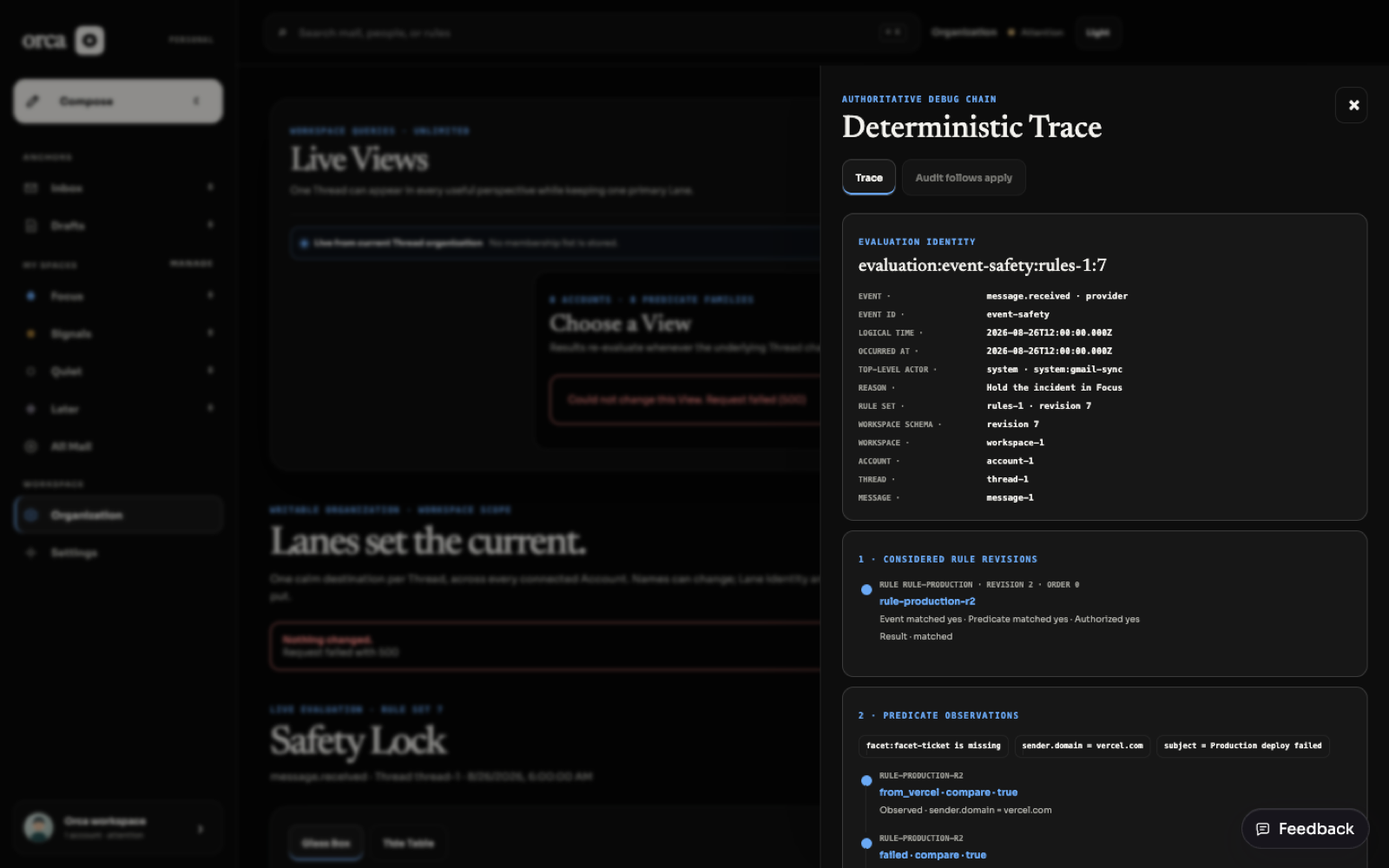
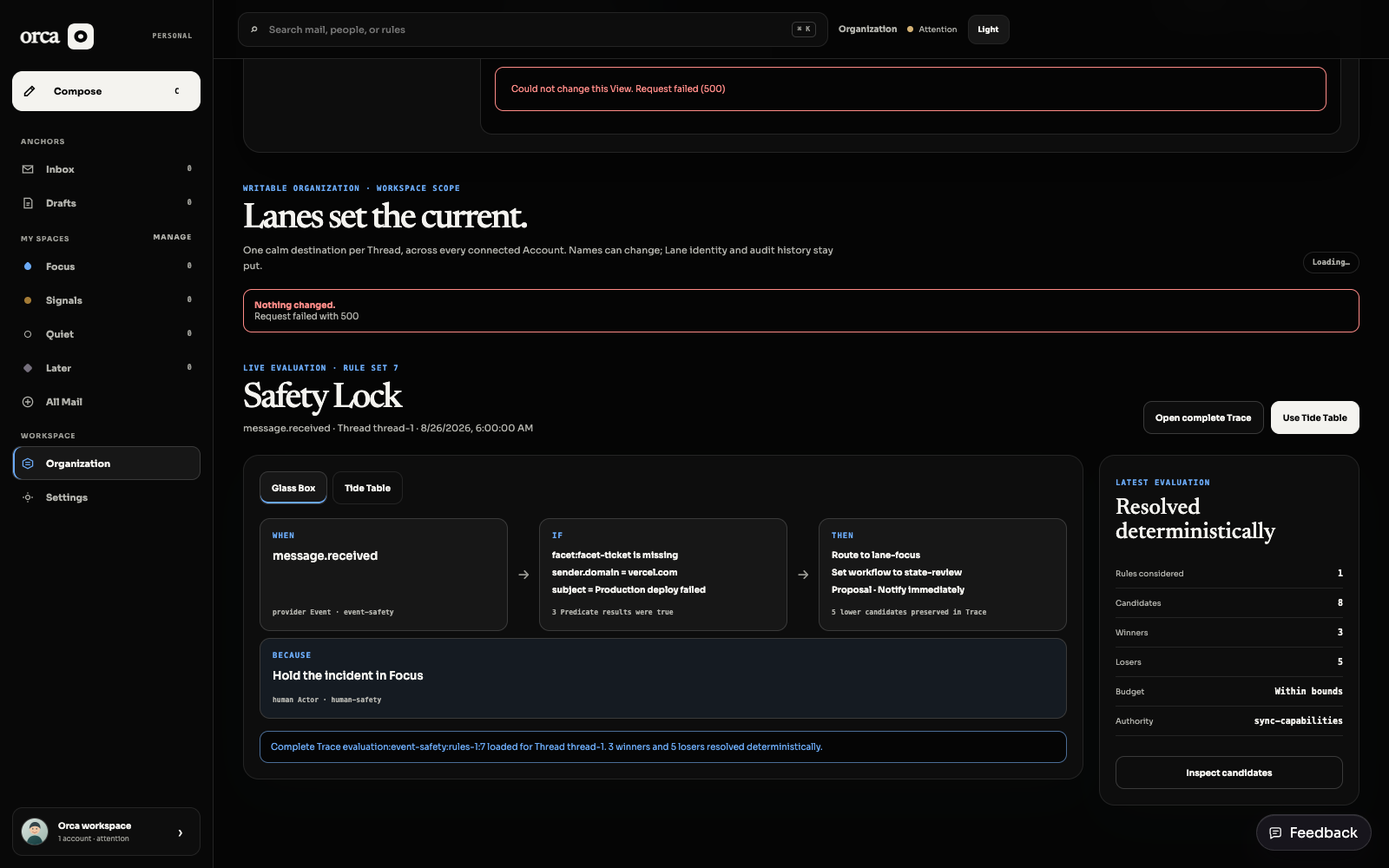
fix(BRE-315): keep Trace status truthful

diff --git a/apps/web/src/desktop-switch.tsx b/apps/web/src/desktop-switch.tsx
@@ -406,29 +406,41 @@ export function OrganizationStudio({ interactivePreview = false }: { interactive
   const [traceState, setTraceState] = useState<"loading" | "ready" | "empty" | "error">(interactivePreview ? "empty" : "loading");
   const [status, setStatus] = useState(interactivePreview
     ? "UI preview · local session only. No rule, provider mail, or audit record is changed or persisted."
-    : "Immutable source compilation is available in Tide Table. Simulation, activation, revert, Trace, and Audit are not part of this compile-only revision.");
+    : "Loading the latest complete Trace…");
   const timerRef = useRef<ReturnType<typeof setTimeout> | null>(null);
+  const traceRequestGenerationRef = useRef(0);
   const previewTideRequest = useMemo(() => createTidePreviewRequest(), []);
   const invalidateOrganization = useCallback(() => {
     if (!interactivePreview) setOrganizationInvalidation((current) => current + 1);
   }, [interactivePreview]);
   useEffect(() => () => { if (timerRef.current) clearTimeout(timerRef.current); }, []);
   useEffect(() => {
+    const requestGeneration = ++traceRequestGenerationRef.current;
     if (interactivePreview) return;
     const controller = new AbortController();
+    setLiveTrace(null);
+    setTraceState("loading");
+    setStatus("Loading the latest complete Trace…");
     void fetch("/v1/organization/evaluations/latest", { credentials: "include", signal: controller.signal })
       .then(async (response) => {
         if (!response.ok) throw new Error(`Trace request failed (${response.status})`);
         const body = await response.json() as { trace?: unknown };
         const parsed = orcaEvaluationTraceSchema.nullable().safeParse(body.trace ?? null);
         if (!parsed.success) throw new Error("Latest Trace did not match the Orca evaluation contract");
+        if (controller.signal.aborted || requestGeneration !== traceRequestGenerationRef.current) return;
         setLiveTrace(parsed.data);
         setTraceState(parsed.data ? "ready" : "empty");
+        if (parsed.data) {
+          setStatus(`Complete Trace ${parsed.data.id} loaded for Thread ${parsed.data.event.threadId}. ${parsed.data.winners.length} winners and ${parsed.data.losers.length} losers resolved deterministically.`);
+        } else {
+          setStatus("No complete Trace is available. No Rule evaluation has been recorded yet.");
+        }
       })
       .catch((error: unknown) => {
-        if (!controller.signal.aborted) {
+        if (!controller.signal.aborted && requestGeneration === traceRequestGenerationRef.current) {
           setTraceState("error");
-          setStatus(error instanceof Error ? error.message : "Latest Trace is unavailable");
+          const detail = error instanceof Error ? error.message : "Latest Trace is unavailable";
+          setStatus(`Complete Trace unavailable. ${detail}. No causal claim is shown without evidence.`);
         }
       });
     return () => controller.abort();
@@ -452,7 +464,7 @@ export function OrganizationStudio({ interactivePreview = false }: { interactive
     <header className="organization-heading"><div><span>{interactivePreview ? `Organization UI preview · session ${activeRevision}` : displayTrace ? `Live evaluation · Rule Set ${displayTrace.ruleSet.revision}` : "Organization · deterministic evaluation"}</span><h1 id="organization-title">{displayTrace ? traceTitle(displayTrace) : "Production failures"}</h1><p>{interactivePreview ? "Local interaction preview for Focus · nothing is persisted" : displayTrace ? `${displayTrace.event.kind} · Thread ${displayTrace.event.threadId} · ${new Date(displayTrace.logicalTime).toLocaleString()}` : traceState === "loading" ? "Loading the latest complete Trace…" : traceState === "error" ? "The latest Trace could not be read" : "No Rule evaluation has been recorded yet"}</p></div><div><button className="organization-trace-trigger" disabled={!interactivePreview && !displayTrace} onClick={() => setTraceOpen(true)} type="button">{interactivePreview ? "Preview changes" : "Open complete Trace"}</button><button className="organization-primary" disabled={!interactivePreview} onClick={updateDraft} type="button">{interactivePreview ? "New rule" : "Use Tide Table"}</button></div></header>
     <div className="organization-grid"><section className="organization-editor"><nav aria-label="Rule authoring mode"><button aria-pressed={mode === "glass"} onClick={() => setMode("glass")} type="button">Glass Box</button><button aria-pressed={mode === "tide"} onClick={() => setMode("tide")} type="button">Tide Table</button></nav>
       {mode === "glass" ? displayTrace ? <div className="glass-box glass-live-trace"><article><span>When</span><strong>{displayTrace.event.kind}</strong><small>{displayTrace.event.cause} Event · {displayTrace.event.id}</small></article><i>→</i><article><span>If</span><ul>{displayTrace.observedValues.map((value) => <li key={value.field}>{observedValueLabel(value)}</li>)}</ul><small>{displayTrace.predicateResults.filter((result) => result.result).length} Predicate results were true</small></article><i>→</i><article><span>Then</span><ul>{displayTrace.winners.map((winner) => <li key={winner.candidateId}>{evaluationActionLabel(winner.action)}</li>)}</ul><small>{displayTrace.losers.length} lower candidate{displayTrace.losers.length === 1 ? "" : "s"} preserved in Trace</small></article><article className="glass-because"><span>Because</span><strong>{tracePrimaryWinner(displayTrace)?.reason ?? displayTrace.reason}</strong><small>{(tracePrimaryWinner(displayTrace)?.actor ?? displayTrace.actor).type} Actor · {(tracePrimaryWinner(displayTrace)?.actor ?? displayTrace.actor).id}</small></article></div> : <div className={`glass-trace-state glass-trace-state-${traceState}`} role="status"><span>{traceState === "loading" ? "Reading Trace" : traceState === "error" ? "Trace unavailable" : "No evaluation yet"}</span><strong>{traceState === "loading" ? "Following the latest message.received path…" : traceState === "error" ? "Orca kept the interface honest: no causal claim is shown without its Trace." : "A complete When → If → Then → Because explanation will appear after the first evaluation."}</strong></div> : <TideTableEditor onCompiled={invalidateOrganization} previewMode={interactivePreview} request={interactivePreview ? previewTideRequest : undefined} />}
-      <p aria-live="polite" className={`organization-status organization-status-${simulation}`}>{status}</p>
+      <p aria-live="polite" className={`organization-status organization-status-${interactivePreview ? simulation : traceState}`}>{status}</p>
     </section><aside className="simulation-card" aria-busy={simulation === "running" || undefined}><span>{interactivePreview ? "Local sample preview" : displayTrace ? "Latest evaluation" : "Trace status"}</span><h2>{interactivePreview ? simulation === "running" ? "Generating sample…" : simulation === "stale" ? "Sample is outdated" : "Preview impact" : displayTrace ? "Resolved deterministically" : traceState === "loading" ? "Reading evidence…" : "No complete Trace"}</h2><dl>{displayTrace ? <><div><dt>Rules considered</dt><dd>{displayTrace.consideredRevisions.length}</dd></div><div><dt>Candidates</dt><dd>{displayTrace.candidates.length}</dd></div><div><dt>Winners</dt><dd>{displayTrace.winners.length}</dd></div><div><dt>Losers</dt><dd>{displayTrace.losers.length}</dd></div><div><dt>Budget</dt><dd>{displayTrace.budget.exhausted ? "Exhausted" : "Within bounds"}</dd></div><div><dt>Authority</dt><dd>{displayTrace.capabilities.id}</dd></div></> : <><div><dt>Sample messages</dt><dd>{simulation === "ready" ? "2,418" : "—"}</dd></div><div><dt>Would move to Focus</dt><dd>{simulation === "ready" ? "14" : "—"}</dd></div><div><dt>Would notify</dt><dd>{simulation === "ready" ? "3" : "—"}</dd></div><div><dt>Would hide</dt><dd>{simulation === "ready" ? "0" : "—"}</dd></div><div><dt>Sample risk</dt><dd>{simulation === "ready" ? "Low" : "Not calculated"}</dd></div><div><dt>Authority</dt><dd>Not checked</dd></div></>}</dl>{displayTrace ? <button className="organization-trace-trigger" onClick={() => setTraceOpen(true)} type="button">Inspect candidates</button> : <><button disabled={!interactivePreview || simulation === "running"} onClick={runSimulation} type="button">{simulation === "running" ? "Generating…" : simulation === "stale" ? "Preview again" : "Preview sample"}</button><button className="organization-primary" disabled={!interactivePreview || simulation !== "ready"} onClick={activate} type="button">Change preview state</button></>}</aside></div>
     {traceOpen && displayTrace ? <CompleteTraceDrawer onClose={() => setTraceOpen(false)} trace={displayTrace} /> : null}
     {traceOpen && interactivePreview ? <DesktopDrawer ariaLabel="Local preview changes" className="trace-drawer" onClose={() => setTraceOpen(false)}><header><div><span>{traceTab === "trace" ? "UI explanation preview" : "Local session changes"}</span><h2>{traceTab === "trace" ? "Preview" : "Session"}</h2></div><button aria-label="Close preview changes" onClick={() => setTraceOpen(false)} type="button">×</button></header><div className="trace-tabs"><button aria-pressed={traceTab === "trace"} onClick={() => setTraceTab("trace")} type="button">Explanation</button><button aria-pressed={traceTab === "audit"} onClick={() => setTraceTab("audit")} type="button">Session changes</button></div>{traceTab === "trace" ? <ol><li><span>Sample only</span><strong>No server trace was requested.</strong></li><li><span>Authority</span><strong>Not checked.</strong></li><li className="trace-winner"><span>Preview rule</span><strong>Production failures · local state {activeRevision}.</strong></li><li><span>Persistence</span><strong>Reloading clears this preview.</strong></li></ol> : <ol className="audit-log"><li><span>Local state {activeRevision}</span><strong>Changed in this browser session</strong></li><li><span>Sample preview</span><strong>Illustrative counts · no production query</strong></li><li><span>Audit record</span><strong>None created</strong></li><li><span>Provider mail</span><strong>Not changed</strong></li></ol>}<section><span>Preview restore</span><h3>{revertReview ? `Restore local state ${Math.max(1, activeRevision - 1)}?` : "Changes only this local preview"}</h3><p>{revertReview ? "This updates local component state only. It does not create, rewrite, or preserve any server revision." : "The Organization API does not currently expose revert. This control exists only to review the intended interaction."}</p>{revertReview ? <div className="trace-revert-actions"><button onClick={() => setRevertReview(false)} type="button">Cancel</button><button className="trace-revert-apply" onClick={revert} type="button">Restore local preview</button></div> : <button onClick={() => setRevertReview(true)} type="button">Review local restore</button>}</section></DesktopDrawer> : null}

diff --git a/apps/web/public/docs/bre-315-deterministic-evaluator.html b/apps/web/public/docs/bre-315-deterministic-evaluator.html
@@ -18,9 +18,9 @@
     <section id="slice"><div class="section-head"><span class="num">01</span><h2>The vertical slice</h2><p>The evaluator is a deep module: one explicit interface, with ambient I/O and clocks excluded.</p></div><div class="grid"><article class="card"><b>Four Events</b><strong>One canonical vocabulary</strong><p><code>message.received</code>, <code>thread.updated</code>, <code>schedule.reached</code>, and <code>user.corrected</code> compile and evaluate consistently. Evaluator-origin Events are loop-blocked.</p></article><article class="card"><b>Resolution</b><strong>Compatible combines; exclusive selects</strong><p>Safety Lock, Manual Override, ordered Rules, Lane Policy, and Workspace fallback share one deterministic precedence law.</p></article><article class="card"><b>Output</b><strong>Typed Actions + complete Trace</strong><p>Every considered revision, observed value, Predicate result, candidate, winner, loser, authority fact, reason, and budget count survives.</p></article></div></section>
     <section id="precedence"><div class="section-head"><span class="num">02</span><h2>One global law</h2><p>Rule order breaks Rule ties; stable IDs break remaining ties. No adapter gets its own policy logic.</p></div><div class="law"><span>1 · Safety Lock</span><i>→</i><span>2 · Manual Override</span><i>→</i><span>3 · Ordered Rule</span><i>→</i><span>4 · Lane Policy</span><i>→</i><span>5 · Workspace fallback</span></div></section>
     <section id="walkthrough"><div class="section-head"><span class="num">03</span><h2>Production failure, explained</h2><p>This is the evidence path exercised by the live SQLite test and rendered by the Organization Glass Box.</p></div><div class="trace"><div class="glass"><article><span>When</span><strong>message.received</strong><p class="kicker">provider Event</p></article><i>→</i><article><span>If</span><ul><li>sender.domain = vercel.com</li><li>subject = Production deploy failed</li></ul></article><i>→</i><article><span>Then</span><ul><li>Route to lane-focus</li><li>Set workflow to state-review</li><li>Set facet-urgency = urgent</li><li>Add collection-launch</li><li>Link context-orca</li><li>Notify immediately</li></ul></article><article class="because"><span>Because</span><strong>A failed deploy blocks work.</strong></article></div><aside class="timeline"><span class="kicker">Complete Trace</span><h3>Why Focus won</h3><ol><li><span>Revision considered</span><strong>rule-production-r2 · Event and Predicate matched</strong></li><li class="win"><span>Winner · Rule Revision</span><strong>Route to lane-focus</strong></li><li><span>Loser · Workspace fallback</span><strong>lane-fallback preserved with the reason higher_precedence_candidate</strong></li><li><span>Authority</span><strong>system:gmail-sync · organization_thread + organization_attention</strong></li><li><span>Budget</span><strong>3 / 2,000 Predicate steps · not exhausted</strong></li></ol></aside></div></section>
-    <section id="evidence"><div class="section-head"><span class="num">03B</span><h2>Fresh browser evidence</h2><p>Captured from the real Vite UI with <code>agent-browser</code> using the checked-in fixture that the Trace UI test proves identical to real evaluator output. In both themes, Safety Lock is the Lane winner and the top-level reason is exactly <code>Hold the incident in Focus</code>.</p></div><div class="shots"><figure><img alt="Real-evaluator Safety Lock Trace with authoritative title, reason, Actor, and complete candidate chain in Light theme" src="/docs/assets/bre-315-trace-light.png"><figcaption>Light · Safety Lock title and reason; exact human Actor; Rule, Manual Override, and fallback loser links.</figcaption></figure><figure><img alt="Real-evaluator Safety Lock Trace with proposals, capability denial, and winner linkage in Orca Black" src="/docs/assets/bre-315-trace-orca-black.png"><figcaption>Orca Black · the same authoritative winner evidence with proposal labels, capability denial, and full Snapshot.</figcaption></figure></div></section>
+    <section id="evidence"><div class="section-head"><span class="num">03B</span><h2>Fresh browser evidence</h2><p>Captured from the real Vite UI with <code>agent-browser</code> using the checked-in fixture that the Trace UI test proves identical to real evaluator output. In both themes, the visible and <code>aria-live</code> status names the exact evaluation and Thread, reports the winner/loser totals, and agrees with the rendered Glass Box.</p></div><div class="shots"><figure><img alt="Truthful complete Trace status with exact evaluation, Thread, winner, and loser wording in Light theme" src="/docs/assets/bre-315-trace-light.png"><figcaption>Light · exact ready status, focused Trace control, selected Glass Box, Safety Lock reason, and deterministic totals.</figcaption></figure><figure><img alt="The same truthful complete Trace status and Glass Box evidence in Orca Black" src="/docs/assets/bre-315-trace-orca-black.png"><figcaption>Orca Black · readable ready status, focus and selected states, exact Actor, and matching winner/loser totals.</figcaption></figure></div></section>
     <section id="storage"><div class="section-head"><span class="num">04</span><h2>Storage and failure invariants</h2><p>Mail normalization, organization projections, and Trace persistence share the provider transaction.</p></div><div class="checks"><table><thead><tr><th>Invariant</th><th>Evidence</th><th>Status</th></tr></thead><tbody><tr><td>Safety Lock survives replay</td><td>Matching and nonmatching same-Thread updates leave the locked Lane, source, Actor, reason, revision, and reload result exact; lower candidates remain Trace-only losers</td><td class="pass">Verified</td></tr><tr><td>Manual Override and unlock</td><td>Safety Lock wins and links the losing Manual Override; after unlock the ordinary lower-placement invariant resumes</td><td class="pass">Verified</td></tr><tr><td>Four Event families</td><td>Shared schema, compiler, evaluator, live provider routing, Trace DB CHECK, and fixtures use the same stable wire values</td><td class="pass">Verified</td></tr><tr><td>Proposal-only boundary</td><td>Notify/suppress/schedule, retention, and provider deletion remain typed Trace/actions JSON proposals; no reminder, notification, retention, or deletion side effect is created</td><td class="pass">Verified</td></tr><tr><td>Immutable evidence</td><td>SQLite UPDATE and DELETE rejection triggers plus Workspace/Event idempotency</td><td class="pass">Verified</td></tr><tr><td>No partial apply</td><td>Forced Trace INSERT failure rolls back normalized mail and every Organization projection</td><td class="pass">Verified</td></tr><tr><td>No recursive authored loops</td><td>Evaluator-origin Events are considered but blocked before Rule execution</td><td class="pass">Verified</td></tr></tbody></table></div></section>
-    <section id="manual"><div class="section-head"><span class="num">05</span><h2>Manual reviewer path</h2><p>Use the real Organization screen. The checks below cover content, interaction, theme safety, and immutable storage.</p></div><div class="manual"><article><h3>Complete Trace</h3><ol><li>Open <code>/?destination=organization</code> with a signed-in Workspace that has a recorded evaluation.</li><li>Select <strong>Open complete Trace</strong>.</li><li>Confirm Evaluation/Event/Rule Set/Workspace snapshot IDs, Actor, reason, and logical time are visible.</li><li>Confirm every considered revision includes order, Event/Predicate/authorization results; every Predicate includes observed values including missing data.</li><li>Confirm each candidate identifies winner/loser, typed action, source/revision/order, exact Actor, authorization and missing Capabilities, reason, and winner link.</li><li>Confirm the full Capability Snapshot identity, revision, scope, operations, resource families, and action families is present.</li></ol></article><article><h3>Theme and controls</h3><ol><li>Check Light and Orca Black.</li><li>Inspect default, hover, keyboard focus, selected Glass Box tab, disabled Audit, and open Trace states.</li><li>Every state must retain a readable label, visible border, and ink foreground.</li><li>Confirm attention, retention, and provider deletion entries say <strong>Proposal</strong>.</li></ol></article><article><h3>Focused automation</h3><pre>bun test \
+    <section id="manual"><div class="section-head"><span class="num">05</span><h2>Manual reviewer path</h2><p>Use the real Organization screen. The checks below cover content, interaction, theme safety, and immutable storage.</p></div><div class="manual"><article><h3>Complete Trace</h3><ol><li>Open <code>/?destination=organization</code> with a signed-in Workspace that has a recorded evaluation.</li><li>Confirm the ready status names the exact Trace and Thread and matches the visible winner/loser totals.</li><li>Select <strong>Open complete Trace</strong>.</li><li>Confirm Evaluation/Event/Rule Set/Workspace snapshot IDs, Actor, reason, and logical time are visible.</li><li>Confirm every considered revision includes order, Event/Predicate/authorization results; every Predicate includes observed values including missing data.</li><li>Confirm each candidate identifies winner/loser, typed action, source/revision/order, exact Actor, authorization and missing Capabilities, reason, and winner link.</li><li>Confirm the full Capability Snapshot identity, revision, scope, operations, resource families, and action families is present.</li></ol></article><article><h3>Theme and controls</h3><ol><li>Check Light and Orca Black.</li><li>Inspect default, hover, keyboard focus, selected Glass Box tab, disabled Audit, and open Trace states.</li><li>Verify ready, empty, and error status wording is readable, truthful, and does not retain a prior Trace or compile-only claim.</li><li>Every state must retain a readable label, visible border, and ink foreground.</li><li>Confirm attention, retention, and provider deletion entries say <strong>Proposal</strong>.</li></ol></article><article><h3>Focused automation</h3><pre>bun test \
   apps/api/src/organization/rules/evaluator.test.ts \
   apps/api/src/organization/rules/evaluation-integration.test.ts \
   apps/api/src/organization/rules/evaluation-migration.test.ts \

diff --git a/apps/web/src/organization-trace.test.tsx b/apps/web/src/organization-trace.test.tsx
@@ -71,6 +71,9 @@ describe("Organization Glass Box Trace", () => {
     expect(browser.document.body.textContent).toContain("sender.domain = vercel.com");
     expect(browser.document.body.textContent).toContain("Route to lane-focus");
     expect(browser.document.body.textContent).toContain("A failed deploy blocks work");
+    expect(browser.document.querySelector(".organization-status")?.textContent).toBe(
+      "Complete Trace evaluation:event-1:rules-1:7 loaded for Thread thread-1. 3 winners and 3 losers resolved deterministically.",
+    );
     const open = [...browser.document.querySelectorAll("button")].find((button) => button.textContent === "Open complete Trace");
     expect(open?.disabled).toBe(false);
     act(() => open?.dispatchEvent(new browser.MouseEvent("click", { bubbles: true })));
@@ -124,6 +127,92 @@ describe("Organization Glass Box Trace", () => {
     expect(content).toContain("Winner link · safety-lock:lane");
     expect(content).toContain("rule:rule-production:rule-production-r2:0 · Loser");
     expect(content).toContain("Reason · Hold the incident in Focus");
+  });
+
+  test("announces the exact empty Trace state without retaining compile-only wording", async () => {
+    setGlobal("fetch", async (input: RequestInfo | URL) => {
+      if (String(input) === "/v1/organization/evaluations/latest") return Response.json({ trace: null });
+      return Response.json({ error: { code: "not_available" } }, { status: 503 });
+    });
+
+    await act(async () => {
+      root!.render(<OrganizationStudio />);
+      await new Promise((resolve) => setTimeout(resolve, 0));
+    });
+
+    expect(browser.document.querySelector(".glass-trace-state-empty")?.textContent).toBe(
+      "No evaluation yetA complete When → If → Then → Because explanation will appear after the first evaluation.",
+    );
+    expect(browser.document.querySelector(".organization-status")?.textContent).toBe(
+      "No complete Trace is available. No Rule evaluation has been recorded yet.",
+    );
+  });
+
+  test("announces the exact Trace error without retaining empty or success wording", async () => {
+    setGlobal("fetch", async (input: RequestInfo | URL) => {
+      if (String(input) === "/v1/organization/evaluations/latest") {
+        return Response.json({ error: { code: "upstream_unavailable" } }, { status: 503 });
+      }
+      return Response.json({ error: { code: "not_available" } }, { status: 503 });
+    });
+
+    await act(async () => {
+      root!.render(<OrganizationStudio />);
+      await new Promise((resolve) => setTimeout(resolve, 0));
+    });
+
+    expect(browser.document.querySelector(".glass-trace-state-error")?.textContent).toBe(
+      "Trace unavailableOrca kept the interface honest: no causal claim is shown without its Trace.",
+    );
+    expect(browser.document.querySelector(".organization-status")?.textContent).toBe(
+      "Complete Trace unavailable. Trace request failed (503). No causal claim is shown without evidence.",
+    );
+  });
+
+  test("keeps the current Thread and Trace wording when an older response resolves last", async () => {
+    let resolveOlder!: (response: Response) => void;
+    const olderResponse = new Promise<Response>((resolve) => { resolveOlder = resolve; });
+    const olderTrace = structuredClone(trace);
+    olderTrace.id = "evaluation:event-old:rules-1:7";
+    olderTrace.event.id = "event-old";
+    olderTrace.event.threadId = "thread-old";
+    const currentTrace = structuredClone(trace);
+    currentTrace.id = "evaluation:event-current:rules-1:7";
+    currentTrace.event.id = "event-current";
+    currentTrace.event.threadId = "thread-current";
+    let traceReads = 0;
+    setGlobal("fetch", async (input: RequestInfo | URL) => {
+      if (String(input) === "/v1/organization/evaluations/latest") {
+        traceReads += 1;
+        return traceReads === 1 ? olderResponse : Response.json({ trace: currentTrace });
+      }
+      return Response.json({ error: { code: "not_available" } }, { status: 503 });
+    });
+
+    await act(async () => { root!.render(<OrganizationStudio />); await Promise.resolve(); });
+    await act(async () => { root!.render(<OrganizationStudio interactivePreview />); await Promise.resolve(); });
+    await act(async () => {
+      root!.render(<OrganizationStudio />);
+      await new Promise((resolve) => setTimeout(resolve, 0));
+    });
+
+    const currentStatus = "Complete Trace evaluation:event-current:rules-1:7 loaded for Thread thread-current. 3 winners and 3 losers resolved deterministically.";
+    expect(browser.document.querySelector(".organization-status")?.textContent).toBe(currentStatus);
+    expect(browser.document.querySelector(".organization-heading p")?.textContent).toContain("Thread thread-current");
+
+    await act(async () => {
+      resolveOlder(Response.json({ trace: olderTrace }));
+      await new Promise((resolve) => setTimeout(resolve, 0));
+    });
+
+    expect(browser.document.querySelector(".organization-status")?.textContent).toBe(currentStatus);
+    expect(browser.document.querySelector(".organization-heading p")?.textContent).toContain("Thread thread-current");
+    const open = [...browser.document.querySelectorAll("button")].find((candidate) => candidate.textContent === "Open complete Trace");
+    act(() => open?.dispatchEvent(new browser.MouseEvent("click", { bubbles: true })));
+    const content = browser.document.body.textContent ?? "";
+    expect(content).toContain("Event ID · event-current");
+    expect(content).toContain("Thread · thread-current");
+    expect(content).not.toContain("thread-old");
   });
 
   test("keeps the browser reviewer fixture identical to real evaluator output", async () => {
